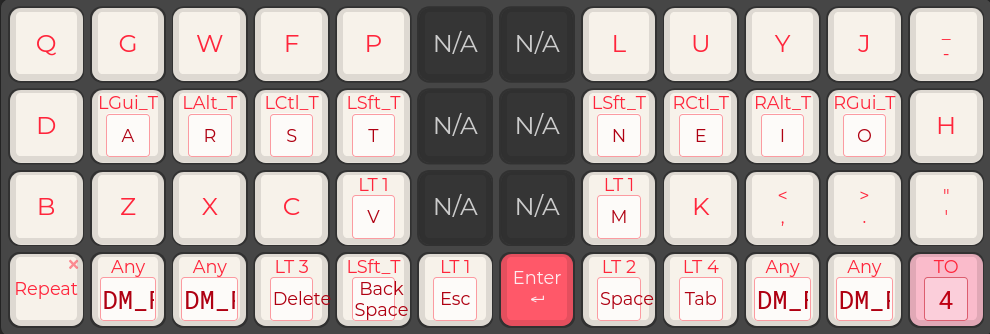
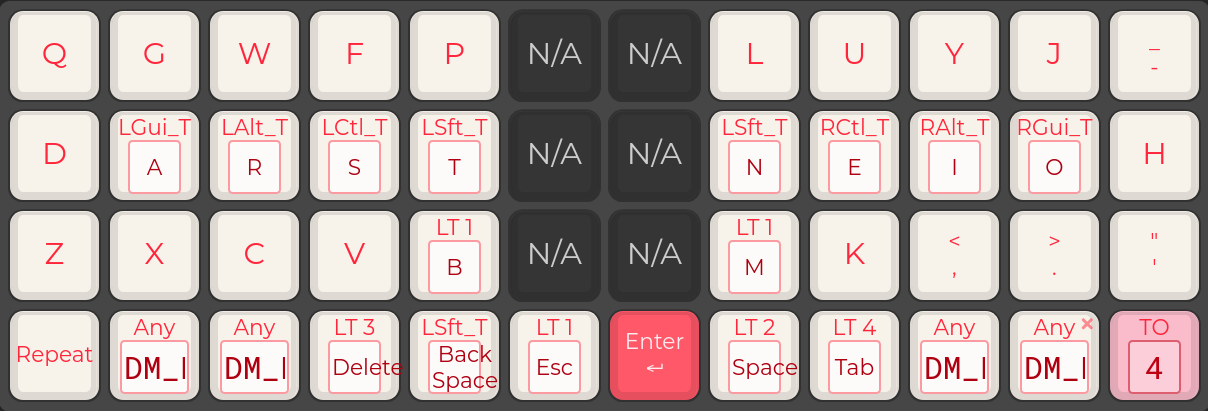
Go back to ZXCVB on Colemak and MVMT

diff --git a/keyboards/planck/rev7/keymaps/akyuute_minimal/keymap.c b/keyboards/planck/rev7/keymaps/akyuute_minimal/keymap.c
@@ -47,7 +47,7 @@ const uint16_t PROGMEM keymaps[][MATRIX_ROWS][MATRIX_COLS] = {
 
         KC_Q, KC_G, KC_W, KC_F, KC_P, KC_NO,KC_NO, KC_L, KC_U, KC_Y, KC_J, KC_MINS,
         KC_D, LG(KC_A), LA(KC_R), LC(KC_S), LS(KC_T), KC_NO,KC_NO, LS(KC_N), RC(KC_E), RA(KC_I), RG(KC_O), KC_H,
-        KC_B, KC_Z, KC_X, KC_C, SYMB(KC_V), KC_NO,KC_NO, SYMB(KC_M), KC_K, KC_COMM, KC_DOT, KC_QUOT,
+        KC_Z, KC_X, KC_C, KC_V, SYMB(KC_B), KC_NO,KC_NO, SYMB(KC_M), KC_K, KC_COMM, KC_DOT, KC_QUOT,
         QK_REP, DM_REC1, DM_PLY1, NUM(KC_DEL), LS(KC_BSPC), SYMB(KC_ESC),KC_ENT, MVMT(KC_SPC), MOUSE(KC_TAB), DM_REC2, DM_PLY2, TO(_MOUSE)
 
     ),
@@ -73,8 +73,8 @@ const uint16_t PROGMEM keymaps[][MATRIX_ROWS][MATRIX_COLS] = {
     [_MVMT] = LAYOUT(
 
         KC_F2, KC_F5, KC_LCBR, KC_TAB, KC_RCBR, KC_NO,KC_NO, KC_HOME, KC_PGDN, KC_PGUP, KC_END, KC_SPC,
-        KC_BSPC, KC_LGUI, KC_LALT, KC_LCTL, KC_LSFT, KC_NO,KC_NO, KC_LEFT, KC_DOWN, KC_UP, KC_RGHT, KC_ENT,
-        KC_DEL, C(KC_Z), C(KC_A), C(KC_C), C(KC_V), KC_NO,KC_NO, KC_LPRN, KC_LBRC, KC_RBRC, KC_RPRN, KC_BSLS,
+        KC_DEL, KC_LGUI, KC_LALT, KC_LCTL, KC_LSFT, KC_NO,KC_NO, KC_LEFT, KC_DOWN, KC_UP, KC_RGHT, KC_ENT,
+        C(KC_Z), C(KC_A), C(KC_C), C(KC_V), KC_BSPC, KC_NO,KC_NO, KC_LPRN, KC_LBRC, KC_RBRC, KC_RPRN, KC_BSLS,
         KC_NO, KC_NO, KC_NO, KC_ENT, KC_SPC, KC_ESC,KC_NO, KC_TRNS, KC_NO, KC_NO, KC_NO, TO(0)
 
     ),
